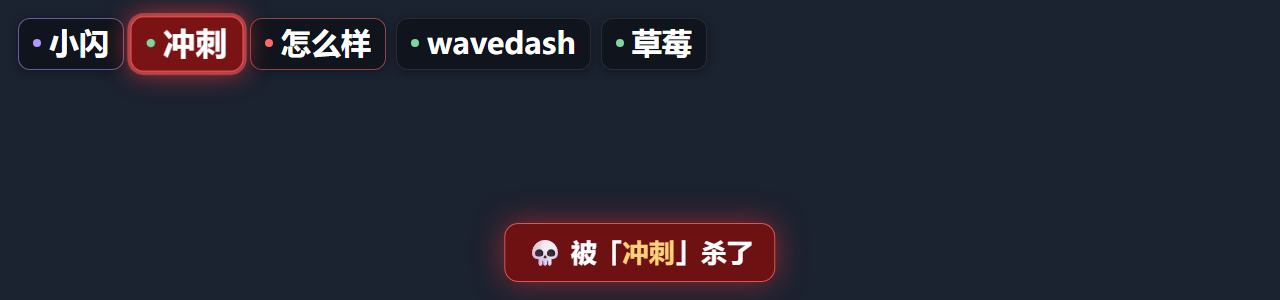
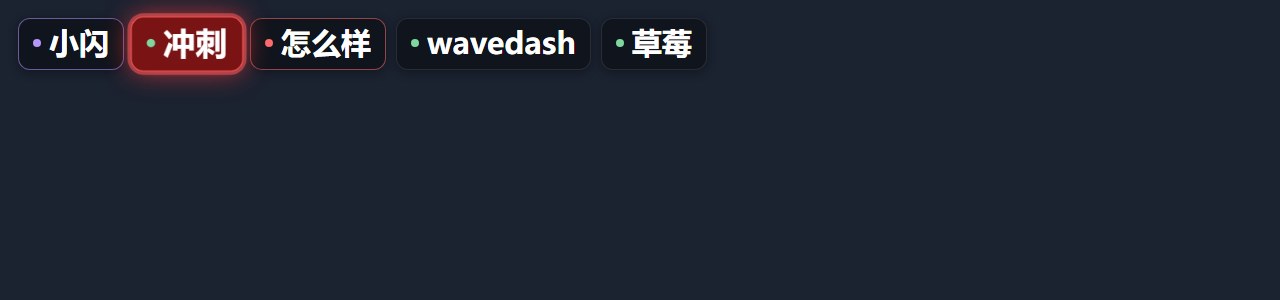
叠层击杀反馈：只让被杀的词条红一下，去掉文字播报

Changed region(s): [[0.375, 0.69, 0.625, 0.99]]

diff --git a/VoiceKill/Source/Resources/overlay.html b/VoiceKill/Source/Resources/overlay.html
@@ -56,25 +56,10 @@
     100% { transform: scale(1); }
   }
 
-  /* 顶部（或底部）闪一条「被 X 杀了」，2 秒后自己消失 */
-  #killBar {
-    position: fixed; left: 50%; transform: translateX(-50%);
-    padding: 10px 22px 12px; border-radius: 14px;
-    background: rgba(120, 16, 16, 0.9);
-    border: 1px solid rgba(255, 110, 110, .75);
-    box-shadow: 0 0 30px rgba(255, 50, 50, .5);
-    color: #fff; font-size: 26px; font-weight: 800; white-space: nowrap;
-    opacity: 0; pointer-events: none; transition: opacity .18s ease;
-    top: 18px;
-  }
-  #killBar.show { opacity: 1; }
-  #killBar.low  { top: auto; bottom: 18px; }
-  #killBar .w { color: #ffd27a; }
 </style>
 </head>
 <body>
 <div id="wrap"></div>
-<div id="killBar">💀 被「<span class="w"></span>」杀了</div>
 
 <script>
 (function(){
@@ -93,13 +78,6 @@
   var lastSig = "";
 
   var lastDeaths = -1;       // -1 = 还没拿到第一次数据，别把历史死亡当成刚发生的
-  var killTimer = 0;
-  var bar = document.getElementById("killBar");
-
-  // 播报条要和词条待在相反的一侧，不然会叠在一起：
-  // 词在上半屏（tl/tc/tr）→ 播报贴底；词在下半屏 → 播报贴顶
-  var chipsAtBottom = (pos === "bl" || pos === "bc" || pos === "br");
-  if (!chipsAtBottom) bar.classList.add("low");
 
   function render(list){
     var sig = list.map(function(w){ return w.t + "|" + w.s; }).join(",");
@@ -130,7 +108,7 @@
   function flashKill(word){
     if (!word) return;
 
-    // 词还在这一轮里 → 让那个词条红一下
+    // 只让「被这个词」红一下，不弹任何文字
     var chips = wrap.querySelectorAll(".chip");
     for (var i = 0; i < chips.length; i++){
       if (chips[i].getAttribute("data-w") === word){
@@ -139,12 +117,6 @@
         chips[i].classList.add("dead");
       }
     }
-
-    // 不管词还在不在，都闪一条播报（词可能刚好换掉了）
-    bar.querySelector(".w").textContent = word;
-    bar.classList.add("show");
-    clearTimeout(killTimer);
-    killTimer = setTimeout(function(){ bar.classList.remove("show"); }, 2000);
   }
 
   function tick(){

diff --git a/README.md b/README.md
@@ -126,7 +126,7 @@ http://localhost:38471/overlay
 > 0.9.9 及更早的版本里 `pos` 的「贴底」不生效（容器没撑满高度，`align-content` 就没作用），
 > 所以 `?pos=br` 还是会出现在右上角。0.9.10 修好了。
 
-**踩雷的瞬间，被那个词会红一下，同时闪一条「💀 被「冲刺」杀了」**——播报条会自动躲到词条的另一侧，不挡词。词刚好换掉了也照样播报。
+**踩雷的瞬间，被那个词会红一下再弹回来**（一两秒后恢复原样），不弹任何文字。
 
 它只读「这一轮有哪些词」，读不到你说了什么，也改不了任何设置。
 
